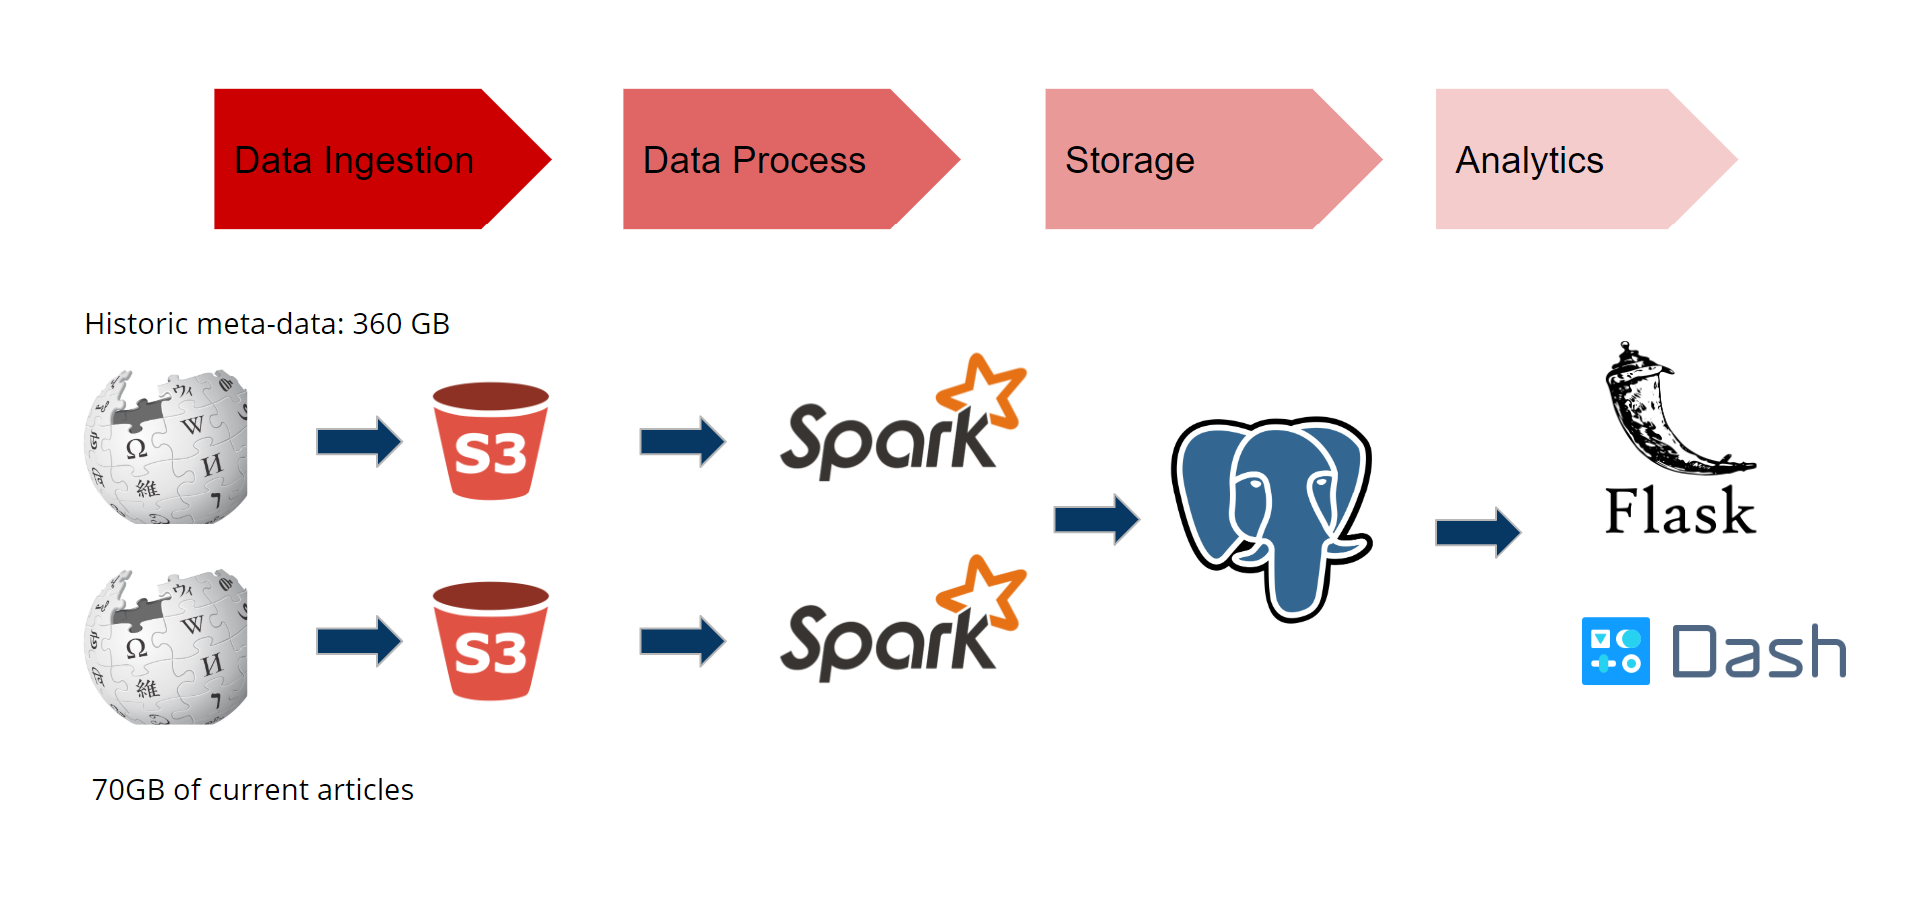
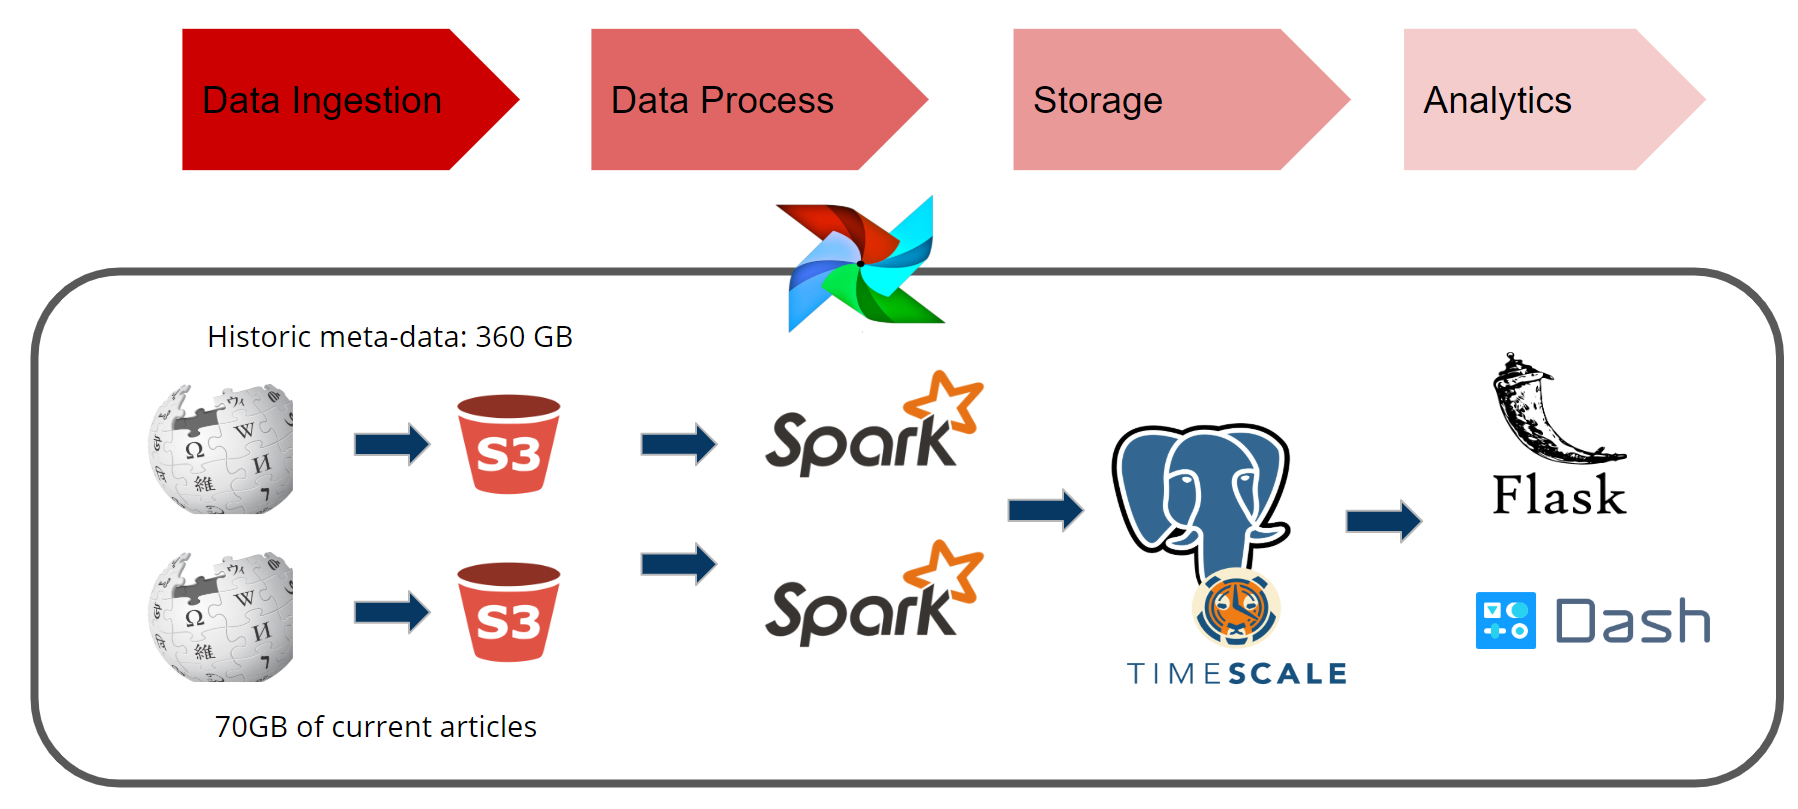
house keeping

Changed region(s): [[0.0, 0.0309, 0.9967, 0.958], [0.0311, 0.9271, 0.9655, 0.9889], [0.7475, 0.3708, 0.9344, 0.6799]]

diff --git a/src/flask/application/templates/nav.html b/src/flask/application/templates/nav.html
@@ -1,5 +1,6 @@
 <nav>
   <a href="/"><i class="fas fa-home"></i> Home</a>
+    <a href="/month/"><i class="fas fa-chart-line"></i> Month </a>
         <a href="/timeseries/"><i class="fas fa-chart-line"></i> Time Series </a>
            <a href="/articles/"><i class="fas fa-chart-line"></i> Articles </a>
     <a href="/analytics/"><i class="fas fa-chart-line"></i> Domains</a>

diff --git a/src/flask/application/dash_application/month.py b/src/flask/application/dash_application/month.py
@@ -1,0 +1,108 @@
+import dash
+import dash_core_components as dcc
+import dash_html_components as html
+from dash.dependencies import Input, Output, State
+# import pandas_datareader.data as web
+import plotly.graph_objs as go
+from datetime import datetime
+import pandas as pd
+import numpy as np
+import os
+import flask
+from pathlib import Path
+from dash import Dash
+import time
+from .layout import html_layout
+import psycopg2
+
+user = os.environ["POSTGRES_USER"]
+host = os.environ["POSTGRES_HOSTNAME"]
+password = os.environ["POSTGRES_PASSWORD"]
+dbname = os.environ["POSTGRES_DBNAME"]
+
+# Settings for psycopg Postgres connector
+
+
+con = psycopg2.connect(database=dbname, user=user, password=password, host=host)
+
+sql_query_1_0= "select * from rate_month_chunks where month = '2019-08-01' order by edits desc limit 10;"
+
+dict_of_tables = {}
+data1_0 = pd.read_sql_query(sql_query_1_0,con)
+
+def Add_Dash(server):
+	"""Create a Dash app."""
+	# tickers = pd.DataFrame(data2.host.head(7))
+	# tickers.set_index('host', inplace=True)
+	external_stylesheets = ['/static/dist/css/styles.css',
+							'https://fonts.googleapis.com/css?family=Lato',
+							'https://use.fontawesome.com/releases/v5.8.1/css/all.css']
+	external_scripts = ['/static/dist/js/includes/jquery.min.js',
+						'/static/dist/js/main.js']
+	dash_app = Dash(server=server,
+					external_stylesheets=external_stylesheets,
+					external_scripts=external_scripts,
+					routes_pathname_prefix='/month/')
+	dash_app.index_string = html_layout
+
+	selected_dropdown_value = ['1/1/2015','2/1/2015','3/1/2015','4/1/2015','5/1/2015','6/1/2015','7/1/2015','8/1/2015','9/1/2015','10/1/2015','11/1/2015','12/1/2015','1/1/2016','2/1/2016','3/1/2016','4/1/2016','5/1/2016','6/1/2016','7/1/2016','8/1/2016','9/1/2016','10/1/2016','11/1/2016','12/1/2016','1/1/2017','2/1/2017','3/1/2017','4/1/2017','5/1/2017','6/1/2017','7/1/2017','8/1/2017','9/1/2017','10/1/2017','11/1/2017','12/1/2017','1/1/2018','2/1/2018','3/1/2018','4/1/2018','5/1/2018','6/1/2018','7/1/2018','8/1/2018','9/1/2018','10/1/2018','11/1/2018','12/1/2018','1/1/2019','2/1/2019','3/1/2019','4/1/2019','5/1/2019','6/1/2019','7/1/2019','8/1/2019']
+	dropdown = '2019-08-01'
+	trace1 = []
+	sql_query_1_0= "select * from rate_month_chunks where month = '2019-08-01' order by reverts desc limit 10;"
+	df = pd.read_sql_query(sql_query_1_0, con)
+	df['Date'] = pd.to_datetime(df.month, infer_datetime_format=True, errors='ignore')
+	df = df[df.Date.dt.year > 2003]
+	df = df.sort_values(by='Date')
+	trace1.append( go.Bar(
+					  x=df['entity_title'],
+					  y=df['reverts'],
+					  name='Total number of reverts for month'+str(df['Date'][0])))
+	traces = [trace1]
+	data_ts = [val for sublist in traces for val in sublist]
+
+	dash_app.layout = html.Div([html.H1("Analysis by Month", style={'textAlign': 'center'}),
+								dcc.Dropdown(id='my-dropdown',
+											 options=[{'label': key, 'value': key} for key in selected_dropdown_value],
+											 style={"display": "block", "margin-left": "auto", "margin-right": "auto",
+													"width": "60%"}),
+								dcc.Graph(id='my-graph', figure={'data': data_ts,
+																 'layout': go.Layout(
+																	 colorway=["#5E0DAC", '#FF4F00', '#375CB1',
+																			   '#FF7400', '#FFF400', '#FF0056'],
+																	 height=600,
+																	 title=f"Total reverts for month {dropdown}",
+																	 barmode='group', xaxis={'automargin': True},
+																	 yaxis={'title': 'Reverts Count'}
+																	 )}, style={'width': '100%'}
+				  ),
+								], className="container")
+
+	@dash_app.callback(Output('my-graph', 'figure'),
+					   [Input('my-dropdown', 'value')])
+	def update_graph(selected_dropdown_val):
+		print(selected_dropdown_value)
+		# sql_query_1_0 = "select * from rate_month where month = '2019-08-01' order by reerts desc limit 10;"
+		sql_query_1 = "select * from rate_month_chunks where month = '"+ str(selected_dropdown_val) +"' order by reverts desc limit 10;"
+		print(sql_query_1)
+		df = pd.read_sql_query(sql_query_1, con)
+		df['Date'] = pd.to_datetime(df.month, infer_datetime_format=True, errors='ignore')
+		trace2 = []
+		trace2.append(go.Bar(
+			x=df['entity_title'],
+			y=df['reverts'],
+			name='Total number of reverts for month' + str(df['Date'][0])))
+
+		traces = [trace2]
+		data_ts = [val for sublist in traces for val in sublist]
+		figure = {'data': data_ts,
+				  'layout': go.Layout(
+					  colorway=["#5E0DAC", '#FF4F00', '#375CB1',
+								'#FF7400', '#FFF400', '#FF0056'],
+					  height=600,
+					  title=f"Total reverts for month {selected_dropdown_val}",
+					  barmode='group', xaxis={'automargin': True},
+					  yaxis={'title': 'Revert Count'}
+				  )}
+		return figure
+	return dash_app.server
+

diff --git a/src/dataprocessing/process_edit_history/edit_history.py b/src/dataprocessing/process_edit_history/edit_history.py
@@ -53,8 +53,8 @@ def count_bots_ind(username):
         pass
     return bots_count
 
-def get_reverts_article(wikipedia):
-    article_edit = wikipedia.filter("ns = '0'")
+def get_reverts_article(wikipedia,filter_date):
+    article_edit = wikipedia.filter("ns = '0'", "REVISION.TIMESTAMP >"+str(filter_date))
     article_edit.createTempView('article')
     article_edit = spark.sql("SELECT ID AS ENTITY_ID, TITLE AS ENTITY_TITLE, REVISION AS REVISION, REVISION.ID AS REVISIONIDS, REVISION.CONTRIBUTOR.USERNAME AS USERNAME, REVISION.COMMENT._VALUE AS COMMENT FROM article")
     find_reverts_udf = udf(count_reverts, IntegerType())  # type: object
@@ -93,13 +93,13 @@ def write2postgres(df, table):
 if __name__ == '__main__':
     file_name = sys.argv[1]
     postgres_table_name_talk = sys.argv[2]
-    postgres_table_name_article = sys.argv[3]
+    filter_date = sys.argv[3]
     num_file = sys.argv[4]
     spark = SparkSession.builder.getOrCreate()
     file = "s3a://wikibuckets/stub/enwiki-20190901-stub-meta-history"+str(num_file)+".xml"
     wikipedia = spark.read.format('xml') \
         .options(rowTag='page').load(file)
     # Parse articles
-    references_dataframe_article = get_reverts_article(wikipedia)
+    references_dataframe_article = get_reverts_article(wikipedia,filter_date)
     df =references_dataframe_article
     write2postgres(df = references_dataframe_article, table = postgres_table_name_article)

diff --git a/src/flask/application/__init__.py b/src/flask/application/__init__.py
@@ -13,22 +13,8 @@ def create_app():
                            template='home-template',
                            body="Insight Data Engineering NY Project")
 
-    # @app.route('/')
-    # def my_form():
-    #     return render_template('my-form.html', title='Source to Conflict.',
-    #                        template='home-template',
-    #                        body="Insight Data Engineering NY Project")
-    #
-    # # @app.route('/', methods=['POST'])
-    # # def my_form_post():
-    # #     text = request.form['text']
-    # #     processed_text = text.upper()
-    # #     return processed_text
     with app.app_context():
 
-        # Import main Blueprint
-        # from . import routes
-        # app.register_blueprint(routes.main_bp)
         from .dash_application import analytics
         app = analytics.Add_Dash(app)
         from .dash_application import categories

diff --git a/src/ingestion/generate_text_file.py b/src/ingestion/generate_text_file.py
@@ -14,7 +14,7 @@ soup_index = BeautifulSoup(index, 'html.parser')
 # Find the links that are dates of dumps
 dumps = [a for a in soup_index.find_all('a')]
 
-dump_url = base_url + '20190901/'
+dump_url = base_url + 'latest/'
 
 # Retrieve the html
 dump_html = requests.get(dump_url).text
@@ -37,7 +37,7 @@ for file in soup_dump.find_all('li', {'class': 'file'}):
 # files
 files_to_download = [file[0] for file in files if 'meta-history' in file[0]]
 
-url = 'https://dumps.wikimedia.org/enwiki/20190901/'
+url = 'https://dumps.wikimedia.org/enwiki/latest/'
 files_to_download_url = [url+ i for i in files_to_download]
 
 with open('/home/ubuntu/Wiki_Bias/src/ingestion/enwiki-meta-history.txt', 'w+') as f:

diff --git a/src/flask/application/dash_application/layout.py b/src/flask/application/dash_application/layout.py
@@ -9,6 +9,7 @@ html_layout = '''<!DOCTYPE html>
                         <body>
                             <nav>
   <a href="/"><i class="fas fa-home"></i> Home</a>
+              <a href="/month/"><i class="fas fa-chart-line"></i> Month </a>
         <a href="/timeseries/"><i class="fas fa-chart-line"></i> Time Series </a>
            <a href="/articles/"><i class="fas fa-chart-line"></i> Articles </a>
     <a href="/analytics/"><i class="fas fa-chart-line"></i> Domains</a>

diff --git a/Benchmarking.md b/Benchmarking.md
@@ -1,0 +1,46 @@
+postgres=# explain analyze select * from rate_month where month = '2019-08-01' order by edits desc limit 10;
+                                                                  QUERY PLAN
+----------------------------------------------------------------------------------------------------------------------------------------------
+ Limit  (cost=99441.02..99442.17 rows=10 width=64) (actual time=925.554..961.605 rows=10 loops=1)
+   ->  Gather Merge  (cost=99441.02..101200.75 rows=15302 width=64) (actual time=925.552..961.582 rows=10 loops=1)
+         Workers Planned: 1
+         Workers Launched: 1
+         ->  Sort  (cost=98441.01..98479.27 rows=15302 width=64) (actual time=909.521..909.577 rows=52 loops=2)
+               Sort Key: edits DESC
+               Sort Method: quicksort  Memory: 2988kB
+               ->  Parallel Seq Scan on rate_month  (cost=0.00..97377.41 rows=15302 width=64) (actual time=0.031..873.761 rows=17582 loops=2)
+                     Filter: (month = '2019-08-01 00:00:00'::timestamp without time zone)
+                     Rows Removed by Filter: 2966510
+ Planning time: 0.086 ms
+ Execution time: 961.680 ms
+(12 rows)
+
+postgres=# CREATE TABLE rate_month_chunks (LIKE rate_month INCLUDING DEFAULTS INCLUDING CONSTRAINTS INCLUDING INDEXES);
+CREATE TABLE
+postgres=# select create_hypertable('rate_month_chunks', 'month');              NOTICE:  adding not-null constraint to column "month"
+DETAIL:  Time dimensions cannot have NULL values
+^[[A       create_hypertable
+--------------------------------
+ (7,public,rate_month_chunks,t)
+(1 row)
+
+postgres=# INSERT INTO rate_month_chunks SELECT * FROM rate_month;
+
+postgres=# explain analyze select * from rate_month_chunks where month = '2019-08-01' order by edits desc limit 10;
+                                                                                    QUERY PLAN
+----------------------------------------------------------------------------------------------------------------------------------------------------------------------------------
+ Limit  (cost=140.96..140.98 rows=10 width=64) (actual time=195.736..195.767 rows=10 loops=1)
+   ->  Sort  (cost=140.96..141.34 rows=155 width=64) (actual time=195.733..195.742 rows=10 loops=1)
+         Sort Key: _hyper_7_3049_chunk.edits DESC
+         Sort Method: top-N heapsort  Memory: 26kB
+         ->  Append  (cost=2.59..137.61 rows=155 width=64) (actual time=78.552..166.040 rows=35164 loops=1)
+               ->  Bitmap Heap Scan on _hyper_7_3049_chunk  (cost=2.59..137.61 rows=155 width=64) (actual time=78.550..115.044 rows=35164 loops=1)
+                     Recheck Cond: (month = '2019-08-01 00:00:00'::timestamp without time zone)
+                     Heap Blocks: exact=352
+                     ->  Bitmap Index Scan on _hyper_7_3049_chunk_rate_month_chunks_month_idx  (cost=0.00..2.55 rows=155 width=0) (actual time=78.479..78.480 rows=35164 loops=1)
+                           Index Cond: (month = '2019-08-01 00:00:00'::timestamp without time zone)
+ Planning time: 150.110 ms
+ Execution time: 195.824 ms
+(12 rows)
+
+Result: Timescale DB is x7 faster with time-based queries

diff --git a/Analysis.md b/Analysis.md
@@ -1,0 +1,43 @@
+# Source of Conflict
+
+## Insight Data Engineering 2019C
+## Manrique Vargas (MV), mv1742@nyu.edu
+# Data Analysis
+
+<img src="https://raw.githubusercontent.com/mv1742/Wiki_Bias/master/figs/SoC.png" data-canonical-src="https://raw.githubusercontent.com/mv1742/Wiki_Bias/master/figs/SoC.png" width="180" height="120" />
+
+
+
+1. [Conflict_Score](README.md#1.-Conflict Score)
+1. [Relevant Findings](README.md#2.-Relevant-Findings)
+1. [Feature Importance](README.md#3.-Feature Importance)
+1. [Discussion](README.md#3.-Discussion)
+
+
+# 1. Conflict_Score
+Source of Conflict is a tool for Wikipedia users and moderators to analyze how some features affect the edit history. I calculate different metrics for and identify which metrics lead to more edits. Conflict is defined by number of reverted articles normalized by total edits and article length. Other features include categories, diversity of references, type of reference, domain, number of edits done by bots. Currently conflictive articles in Wikipedia are manually protected by moderators when necessary. Future work will focus on automating the article protection in Wikipedia using machine learning.
+
+# 2. Relevant Findings
+- Top 10 most reverted articles per month.
+This metric is useful to observe activity in conflictive articles.
+- Top 10 most reverted articles over the entire Wikipedia history.
+Articles range from popular artists to countries and religious topics.
+- Top 10 most reverted domains over the entire Wikipedia history.
+Even though none of the most cited domains do not make it the list, some religous websites are observed among the top 10. 
+
+
+The distribution of domains and conflict score was similar for popular domain sources.
+Meanwhile the distribution of categories and conflict score showed greater mean variance and upper quartile variance for popular article categories.
+Therefore it was concluded that conflict is more influenced by categories and topics rather than the reference sources. 
+
+
+# 4. Discussion
+
+This tool can be used by Wikipedia moderators to monitor contentious articles, potentially automate locking of conflictive articles, and identify recurrently cited sources in conflictive articles.
+
+Similarly, public users can understand edit history and conflict and create awareness of articles with higher risk of bias.
+
+
+# 5. Future Work
+Future work could work towards improving causal inference by looking at all the data from meta-history to analyze time-series, The conflict score can also be imporved. For example the Pagerank algorithm to differentiate popular articles. Statistical tests like KS test can be applied to compare distributions and test null hypothesis. In addition, locking conflictive articles can be automated using NLP models.
+

diff --git a/README.md b/README.md
@@ -100,6 +100,9 @@ See all available datasets [here](https://dumps.wikimedia.org/backup-index.html)
         1.2 Number of edits
         1.3 Username
         1.4 Timestamp
+        1.5 Monthly rate of change
+        1.6 Dayly rate of change
+        1.7 Yearly rate of change
     2. Domain information
         2.1 Domain
         2.2 Url
@@ -123,7 +126,9 @@ See all available datasets [here](https://dumps.wikimedia.org/backup-index.html)
 [edit_history.py](./src/dataprocessing/process_articles/edit_history.py)
 
 ## 8.4 Run data analytics
-[analytics](./src/analytics/wiki_analytics.sql)
+[wiki_analytics.sql](./src/analytics/wiki_analytics.sql)
+[timeseries.sql](./src/analytics/timeseries.sql)
+
 
 # 9. Getting started
 
